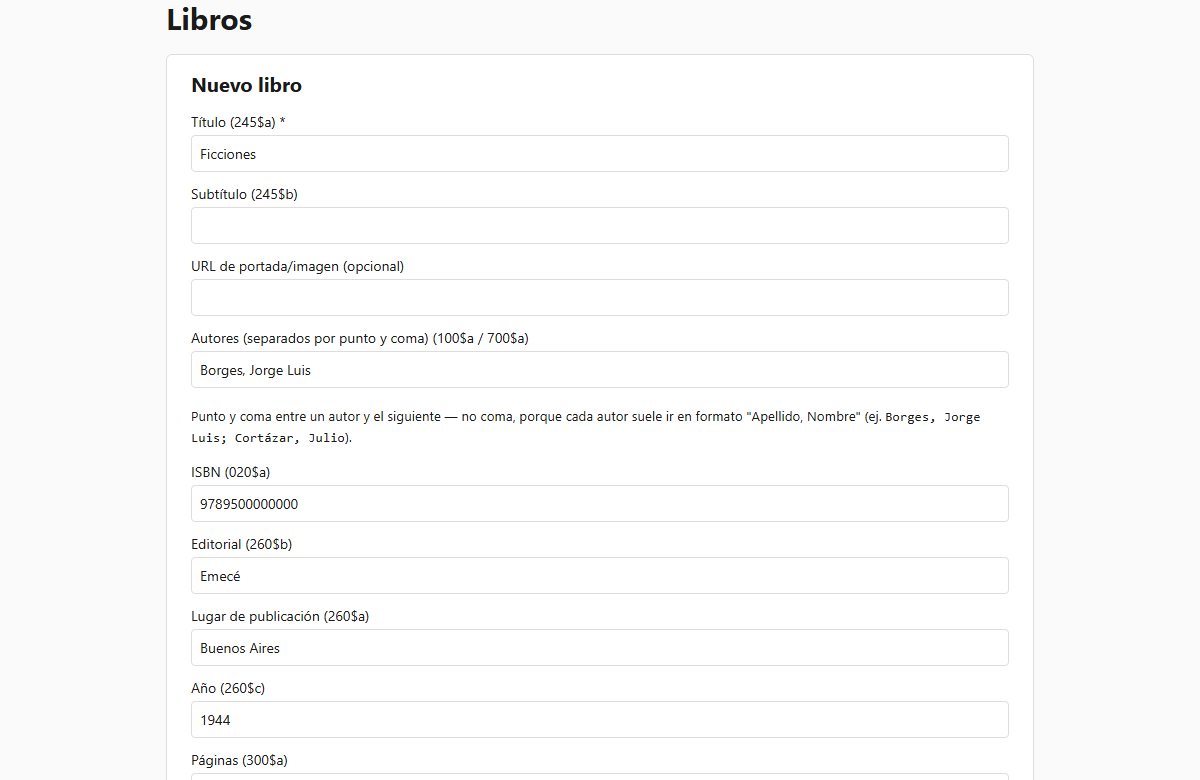
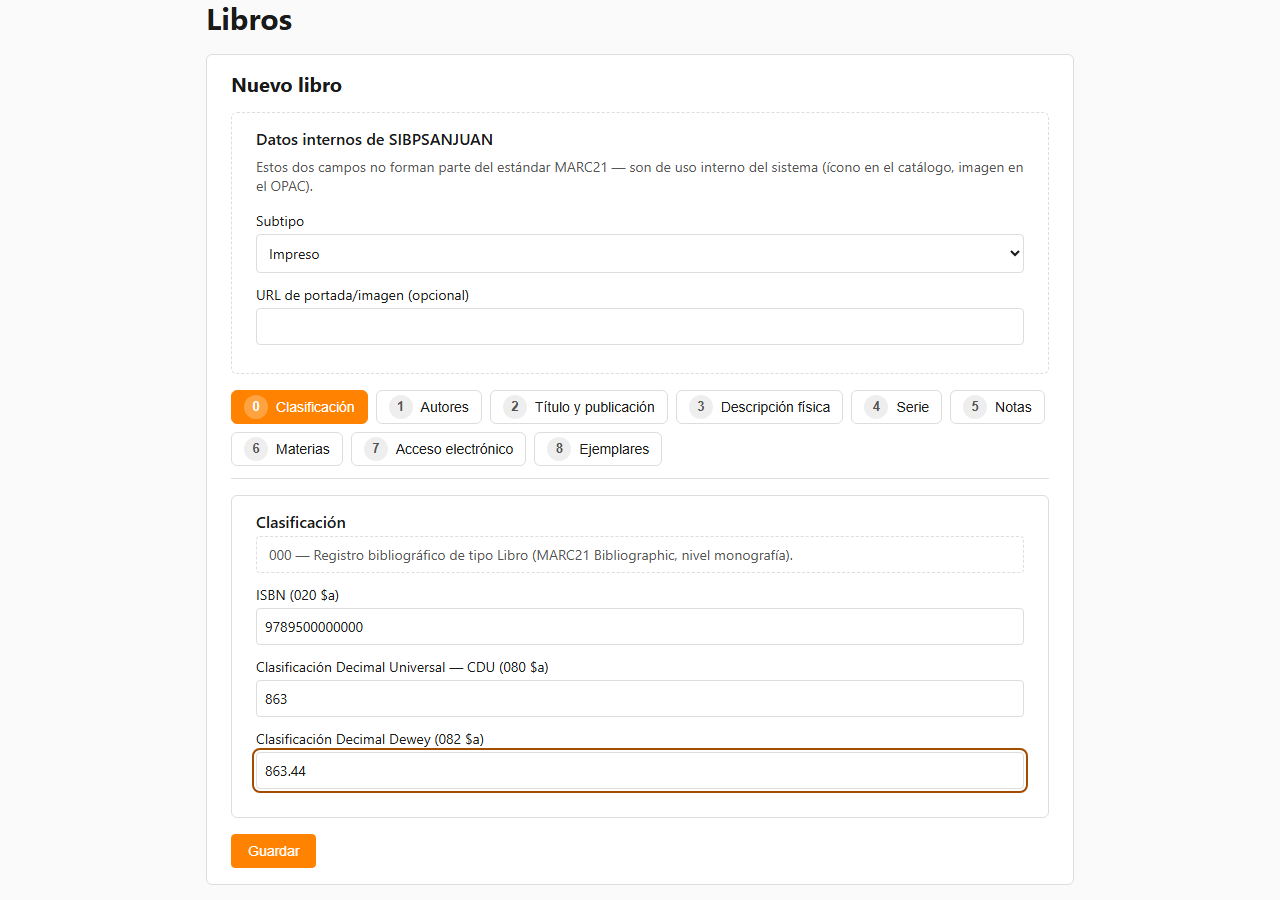
Documentar el nuevo editor MARC de Libros con capturas paso a paso
Nueva sección "Cómo cargar un libro (editor MARC)" con las 9 solapas
explicadas una por una y 3 capturas reales (autores repetibles, título y
publicación, ejemplares). Se reemplaza la captura vieja de "Catalogar
material" (mostraba el formulario plano que ya no existe) y se
actualizan las dos referencias al viejo separador ";" de autores para
aclarar que ya no aplica al formulario individual de Libros.

diff --git a/frontend/src/pages/Documentacion.jsx b/frontend/src/pages/Documentacion.jsx
@@ -10,6 +10,7 @@ const INDICE = [
   { id: "que-es", etiqueta: "Qué es SIBPSANJUAN" },
   { id: "roles", etiqueta: "Roles: quién puede hacer qué" },
   { id: "catalogar", etiqueta: "Catalogar material" },
+  { id: "catalogar-libros", etiqueta: "Cargar un libro (editor MARC)" },
   { id: "carga-masiva", etiqueta: "Carga masiva de libros (CSV/Excel)" },
   { id: "socios", etiqueta: "Socios" },
   { id: "circulacion", etiqueta: "Circulación y préstamos" },
@@ -131,7 +132,7 @@ export default function Documentacion() {
         <p>El menú <strong>Catalogar</strong> agrupa los 10 tipos de material que soporta el sistema:</p>
         <Captura
           src="/docs/catalogar.png"
-          alt='Formulario "Nuevo libro" completado como ejemplo: título, autores separados por punto y coma, ISBN, editorial, lugar y año.'
+          alt='Solapa "Clasificación" del editor de Libros, con el ISBN, la CDU y la clasificación Dewey completados como ejemplo.'
         />
         <ul>
           <li>
@@ -145,6 +146,11 @@ export default function Documentacion() {
             en la norma ISAD(G)) y Objetos de museo. Son piezas únicas que se consultan, no se prestan.
           </li>
         </ul>
+        <p>
+          <strong>Libros</strong> tiene su propio editor por solapas MARC21 — ver la sección siguiente para el
+          detalle paso a paso. Los otros 9 tipos usan un formulario más simple, de una sola pantalla, con estas
+          convenciones:
+        </p>
         <p>
           <strong>Ejemplares.</strong> Al cargar un ítem que circula, el textarea de ejemplares pide{" "}
           <code>código de barras, signatura</code> por línea — una línea por copia física. Sin ejemplares cargados,
@@ -170,6 +176,91 @@ export default function Documentacion() {
           agrupa las variantes bajo la forma autorizada al facetar y filtrar. No hace falta cargar nada acá para que
           el catálogo funcione — sin autoridades cargadas, cada texto tal como se escribió es su propia faceta,
           igual que siempre.
+        </p>
+      </Seccion>
+
+      <Seccion id="catalogar-libros" titulo="Cómo cargar un libro con el editor MARC">
+        <p>
+          Libros → "Nuevo libro" abre un editor organizado en <strong>9 solapas numeradas (0 a 8)</strong>, calcado
+          del editor de registros MARC de Koha — cada solapa agrupa los campos y subcampos MARC21 que le
+          corresponden, con la etiqueta de cada campo mostrando siempre su número de tag entre paréntesis (ej.{" "}
+          <code>245 $a</code>). No hace falta llenar las 9: solo <strong>Título propiamente dicho</strong> (solapa
+          2) es obligatorio, el resto queda vacío sin problema si no aplica o no lo tenés a mano todavía.
+        </p>
+        <ol>
+          <li>
+            <strong>Antes de las solapas</strong>, un recuadro aparte ("Datos internos de SIBPSANJUAN") pide el{" "}
+            <strong>Subtipo</strong> (impreso, digital, ebook, etc. — define el ícono en el catálogo) y, opcional,
+            una <strong>URL de portada</strong>. Estos dos campos no son MARC, son de uso interno del sistema.
+          </li>
+          <li>
+            <strong>Solapa 0 — Clasificación:</strong> ISBN (validado con dígito verificador), Clasificación
+            Decimal Universal (CDU) y clasificación Dewey — las tres opcionales, y las tres de un solo valor.
+          </li>
+          <li>
+            <strong>Solapa 1 — Autores:</strong> a diferencia del resto de los tipos de material, acá cada autor va
+            en <strong>su propia fila</strong>, no separado por punto y coma dentro de un mismo campo. La primera
+            fila es el autor/a principal (100), y cada fila que agregues con el ícono{" "}
+            <strong>"◨ Repetir"</strong> es un autor/a secundario/a (700). El ícono <strong>"✕ Quitar"</strong>{" "}
+            (en rojo) borra una fila ya repetida — solo aparece cuando hay más de una, porque el primer autor nunca
+            se puede quitar del todo (podés dejarlo vacío si no aplica). También hay un campo aparte para{" "}
+            <strong>entidad corporativa</strong> (110), para cuando el responsable es una institución y no una
+            persona — típico de anuarios, informes o memorias institucionales.
+          </li>
+        </ol>
+        <Captura
+          src="/docs/libros-marc-autores.png"
+          alt='Solapa "Autores" con dos autores cargados (Borges, Jorge Luis como principal y Bioy Casares, Adolfo como secundario) y los íconos "Repetir" (cuadrado) y "Quitar" (X roja) junto a cada fila.'
+        />
+        <ol start={4}>
+          <li>
+            <strong>Solapa 2 — Título y publicación:</strong> título, subtítulo, mención de responsabilidad ("por
+            Jorge Luis Borges"), forma variante del título, <strong>mención de edición</strong> ("2a ed."), lugar de
+            publicación, editorial y año.
+          </li>
+        </ol>
+        <Captura
+          src="/docs/libros-marc-titulo.png"
+          alt='Solapa "Título y publicación" completa: Ficciones, subtítulo Cuentos, mención de responsabilidad, edición "2a ed.", Buenos Aires, Emecé, 1944.'
+        />
+        <ol start={5}>
+          <li>
+            <strong>Solapa 3 — Descripción física:</strong> cantidad de páginas, otros detalles físicos (ej.
+            "il." para ilustrado), dimensiones (ej. "21 cm") y material complementario (ej. "1 CD-ROM").
+          </li>
+          <li>
+            <strong>Solapa 4 — Serie:</strong> si el libro pertenece a una colección editorial, su nombre, el número
+            de volumen dentro de la colección, y el ISSN de la serie si lo tiene.
+          </li>
+          <li>
+            <strong>Solapa 5 — Notas:</strong> una nota general de texto libre, más dos notas puntuales opcionales
+            (audiencia — "Para niños de 8 a 10 años" — e idioma, para cuando el contenido no está solo en español).
+          </li>
+          <li>
+            <strong>Solapa 6 — Materias:</strong> mismo mecanismo de filas repetibles que Autores — una materia por
+            fila, con "Repetir"/"Quitar".
+          </li>
+          <li>
+            <strong>Solapa 7 — Acceso electrónico:</strong> solo tiene sentido si el libro (o su subtipo
+            digital/ebook) tiene una URL de acceso — el texto del enlace y la dirección web. Un libro puede tener
+            ejemplares físicos <em>y</em> acceso digital al mismo tiempo, no hay que elegir uno solo.
+          </li>
+          <li>
+            <strong>Solapa 8 — Ejemplares:</strong> igual que en el resto de los tipos de material, una línea por
+            copia física (<code>código de barras, signatura</code>). Es un campo local de Koha (952), no del
+            estándar MARC21 en sí.
+          </li>
+        </ol>
+        <Captura
+          src="/docs/libros-marc-ejemplares.png"
+          alt='Solapa "Ejemplares" con dos copias físicas cargadas: BPSJ-000001 y BPSJ-000002, ambas con signatura "863 BOR".'
+        />
+        <p>
+          Al guardar, todo lo cargado en las 9 solapas queda en el mismo registro — y al volver a abrir el libro
+          para editarlo, cada solapa trae sus datos ya completos, filas repetidas incluidas. Los campos que no se
+          usan quedan simplemente vacíos: no aparecen en el catálogo ni en el export MARC (ver{" "}
+          <a href="#exportar">Exportar</a> más abajo), a diferencia de forzar un valor inventado solo para
+          completar el campo.
         </p>
       </Seccion>
 
@@ -370,9 +461,12 @@ export default function Documentacion() {
           detecta que está tardando.
         </p>
         <p>
-          <strong>¿Por qué autores/materias se separan por punto y coma y no por coma?</strong> Porque un nombre en
-          formato bibliotecario estándar ("Apellido, Nombre") ya trae una coma adentro — usarla también como
-          separador entre autores distintos rompería cualquier campo con más de uno.
+          <strong>¿Por qué autores/materias se separan por punto y coma y no por coma?</strong> Aplica a la carga
+          masiva por CSV y al formulario de los 9 tipos de material que no son Libros — porque un nombre en formato
+          bibliotecario estándar ("Apellido, Nombre") ya trae una coma adentro, usarla también como separador entre
+          autores distintos rompería cualquier campo con más de uno. El editor MARC de Libros evita el problema de
+          otra forma: cada autor/materia va en su propia fila repetible, sin necesitar ningún separador (ver{" "}
+          <a href="#catalogar-libros">Cargar un libro</a> más arriba).
         </p>
         <p>
           <strong>¿Los campos de catalogación siguen alguna norma?</strong> Sí — MARC21 para el export
